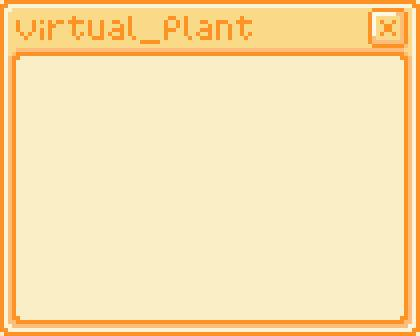
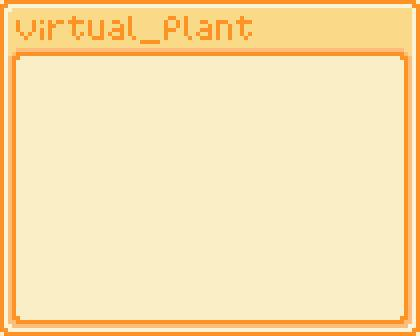
added menu functions

Changed region(s): [[0.8667, 0.0, 0.9905, 0.1488]]

diff --git a/pyplant.py b/pyplant.py
@@ -1,27 +1,32 @@
 import tkinter as tk
 from PIL import ImageTk,Image
 
-lastClickX = 0
-lastClickY = 0
+#path to images/gifs
 impath = '../virtual_plant/img/'
 
+#other variables for plant and popup windows
+lastClickX, lastClickY = 0, 0
+lastClickX_top, lastClickY_top = 0, 0
+
+#begin the main plant window (root)
 root = tk.Tk()
-label = tk.Label(root, bd=0, bg='white')
 
-#call the plant gif as a list of images
-#new and happy plant, 4 frames:
-happy_1 = [tk.PhotoImage(file=impath+'happy_1.gif',format = 'gif -index %i' %(i)) for i in range(5)]
+#call the plant gifs as a list of images
+idle_1 = [tk.PhotoImage(file=impath+'idle_1.gif',format = 'gif -index %i' %(i)) for i in range(3)] #new idle plant, 3 frames
+happy_1 = [tk.PhotoImage(file=impath+'happy_1.gif',format = 'gif -index %i' %(i)) for i in range(5)] #new and happy plant, 5 frames
 
-def save_last_click_pos(event):
-    global lastClickX, lastClickY
-    lastClickX = event.x
-    lastClickY = event.y
-
-def dragging(event):
-    x, y = event.x - lastClickX + root.winfo_x(), event.y - lastClickY + root.winfo_y()
-    root.geometry("+%s+%s" % (x , y))
+#reading in menu and button images
+menu_img = ImageTk.PhotoImage(Image.open(impath+'menu.jpg'))
+water_img = ImageTk.PhotoImage(Image.open (impath+'water.jpg'))
+water_press_img = ImageTk.PhotoImage(Image.open (impath+'water_pressed.jpg'))
+savequit_img = ImageTk.PhotoImage(Image.open (impath+'savequit.jpg'))
+savequit_press_img = ImageTk.PhotoImage(Image.open (impath+'savequit_pressed.jpg'))
+exit_img = ImageTk.PhotoImage(Image.open (impath+'exit.jpg'))
+exit_press_img = ImageTk.PhotoImage(Image.open (impath+'exit_pressed.jpg'))
 
 #making the gif run
+label = tk.Label(root, bd=0, bg='white')
+
 def update(ind):
     frame = happy_1[ind]
     ind += 1
@@ -30,22 +35,37 @@ def update(ind):
     label.configure(image=frame)
     root.after(250, update, ind)
 
-def popup(event):
-    #popup menu
-    global menu_img, water_img, exit_img, exit_press_img
+def callback_function():
+    print('pushed')
 
-    #reading in menu and button images
-    menu_img = ImageTk.PhotoImage(Image.open(impath+'menu.jpg'))
-    water_img = ImageTk.PhotoImage(Image.open (impath+'water.jpg'))
-    exit_img = ImageTk.PhotoImage(Image.open (impath+'exit.jpg'))
-    exit_press_img = ImageTk.PhotoImage(Image.open (impath+'exit_pressed.jpg'))
+def save_function():
+    #save game function
+    print('saved')
 
+def popup_menu_function(event):
+    #popup menu function
+    global top, menu_img, water_img, water_press_img, savequit_img, savequit_press_img, exit_img, exit_press_img, lastClickX_top, lastClickY_top
+
+    if top is not None:
+        top.destroy()
 
     #setting up popup window
     top = tk.Toplevel(bd=0, highlightthickness=0)
+
+    def save_last_click_pos_top(event):
+        global lastClickX_top, lastClickY_top
+        lastClickX_top = event.x
+        lastClickY_top = event.y
+
+    def dragging_top(event):
+        top_x, top_y = event.x - lastClickX_top + top.winfo_x(), event.y - lastClickY_top + top.winfo_y()
+        top.geometry("+%s+%s" % (top_x , top_y))
+
     top.overrideredirect(True)
     top.resizable(False, False)
     top.attributes('-topmost', True)
+    top.bind('<Button-1>', save_last_click_pos_top)
+    top.bind('<B1-Motion>', dragging_top)
     top.geometry(f'{menu_img.width()}x{menu_img.height()}+{root.winfo_x()-250}+{root.winfo_y()-200}')
     
     #making menu image appear
@@ -54,12 +74,54 @@ def popup(event):
     canvas.create_image(0,0, anchor='nw', image=menu_img)
     
     #making the buttons
-    frame = tk.Frame(canvas)
-    canvas.create_window((menu_img.width()-exit_img.width()+8), exit_img.height()-12, window=frame)
-    button = tk.Button(frame, image=exit_img, command=top.destroy, bd=0, highlightthickness=0, anchor="ne")
-    button.pack()
+    exit_btn = tk.Label(canvas, image=exit_img, bd=0, highlightthickness=0)
+    water_btn = tk.Label(canvas, image=water_img, bd=0, highlightthickness=0)
+    savequit_btn = tk.Label(canvas, image=savequit_img, bd=0, highlightthickness=0)
 
+    #placing the buttons
+    exit_btn.place(x=368, y=8, anchor='nw')
+    water_btn.place(x=(menu_img.width()/2)-(water_img.width()/2), y=water_img.height(), anchor='nw')
+    savequit_btn.place(x=(menu_img.width()/2)-(water_img.width()/2), y=(water_img.height()*3.5), anchor='sw')
     
+    #defining button image change functions
+    def water_press(event):
+        water_btn.config(image=water_press_img)
+
+    def water_release(event):
+        water_btn.config(image=water_img)
+        callback_function()
+    
+    def savequit_press(event):
+        savequit_btn.config(image=savequit_press_img)
+    
+    def savequit_release(event):
+        savequit_btn.config(image=savequit_img)
+        save_function()
+        root.destroy()
+
+    def exit_press(event):
+        exit_btn.config(image=exit_press_img)
+
+    def exit_release(event):
+        exit_btn.config(image=exit_img)
+        top.destroy()
+    
+    #binding buttons to mouse click/release
+    water_btn.bind('<ButtonPress-1>', water_press)
+    water_btn.bind('<ButtonRelease-1>', water_release)
+    savequit_btn.bind('<ButtonPress-1>', savequit_press)
+    savequit_btn.bind('<ButtonRelease-1>', savequit_release)
+    exit_btn.bind('<ButtonPress-1>', exit_press)
+    exit_btn.bind('<ButtonRelease-1>', exit_release)
+    
+def save_last_click_pos(event):
+    global lastClickX, lastClickY
+    lastClickX = event.x
+    lastClickY = event.y
+
+def dragging(event):
+    x, y = event.x - lastClickX + root.winfo_x(), event.y - lastClickY + root.winfo_y()
+    root.geometry("+%s+%s" % (x , y))
 
 #plant window configuration
 root.config(highlightbackground='white')
@@ -71,7 +133,9 @@ root.bind('<B1-Motion>', dragging)
 root.wm_attributes('-transparentcolor','white')
 root.after(0, update, 0)
 
-label.bind("<Button-3>", popup)
+label.bind("<Button-3>", popup_menu_function)
 label.pack()
+
+top = None
 
 root.mainloop()
